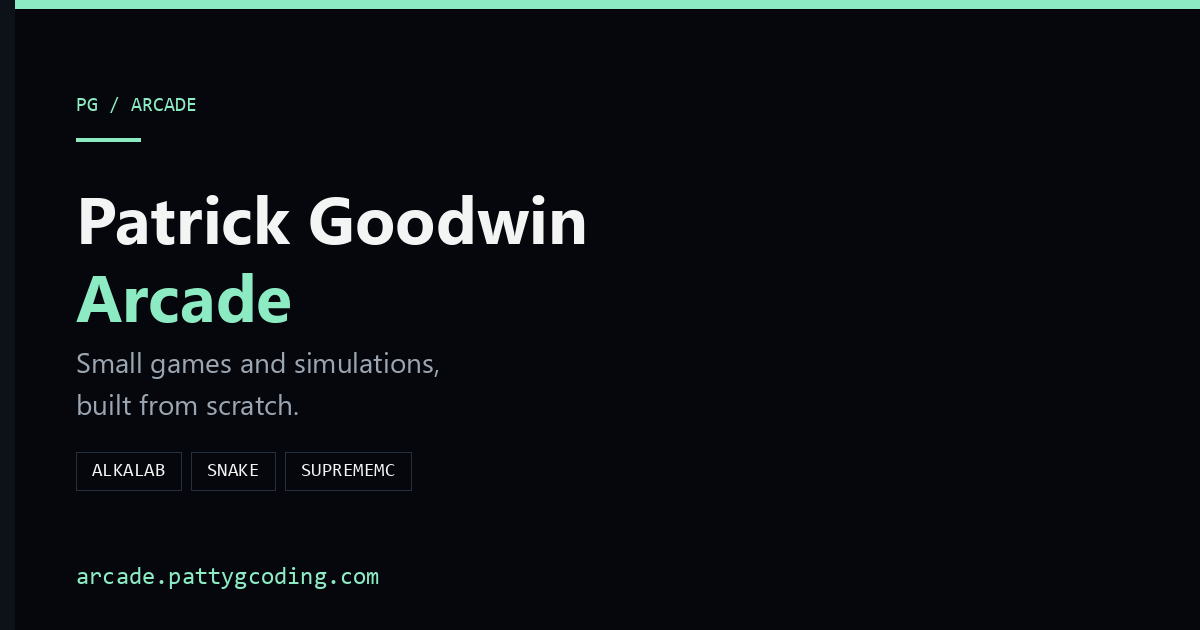
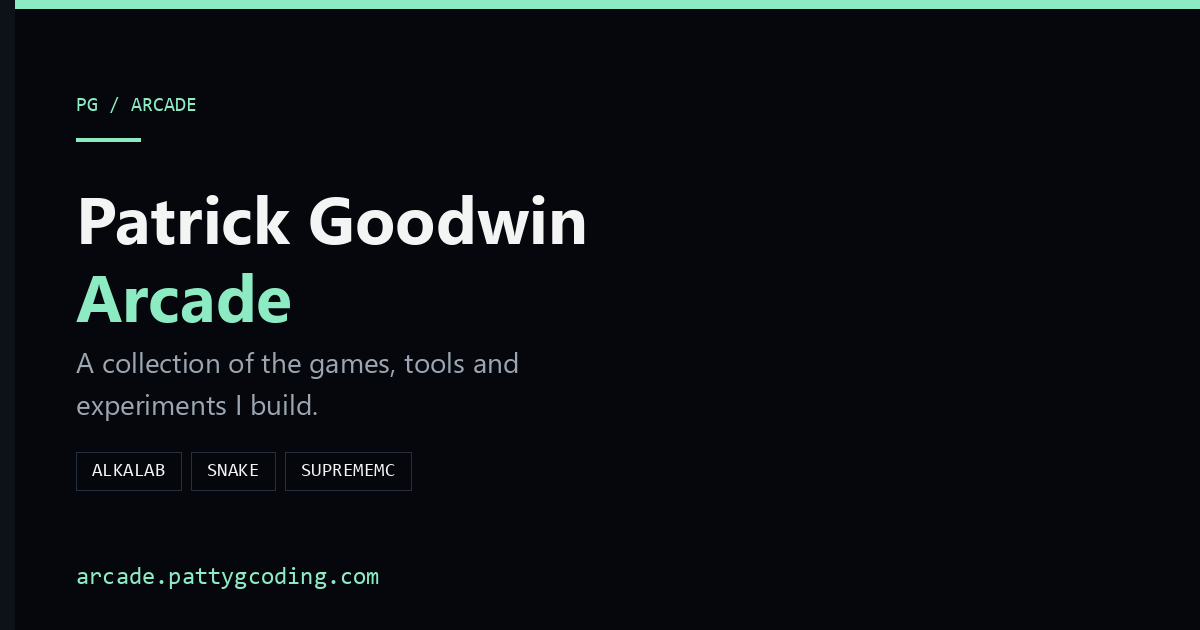
Correct the home copy: this is a collection, not only games
The tagline claimed the arcade was small games and simulations, each built from
scratch and compiled to WebAssembly.  It is really a general place to keep the
games, tools and experiments that get built - and not everything here is a game
or uses WebAssembly.

Reworded the tagline, the home eyebrow, the collection label and the card call to
action, plus the nav label, the baseline meta description, the generated home OG
card and the README intro.

Changed region(s): [[0.0617, 0.5429, 0.4317, 0.6032], [0.0617, 0.6333, 0.2775, 0.6635]]

diff --git a/src/index.html b/src/index.html
@@ -17,11 +17,11 @@
     scripts/generate-og-pages.js rewrites this block once per route.  Keep every tag
     below, because that script looks each one up by name and fails loudly if missing.
   -->
-  <meta name="description" content="Small games and simulations, each built from scratch - and compiled to WebAssembly where it counts.">
+  <meta name="description" content="A collection of the games, tools and experiments I build - and whatever else seems worth keeping.">
   <meta property="og:type" content="website">
   <meta property="og:site_name" content="Patrick Goodwin Arcade">
   <meta property="og:title" content="Patrick Goodwin Arcade">
-  <meta property="og:description" content="Small games and simulations, each built from scratch - and compiled to WebAssembly where it counts.">
+  <meta property="og:description" content="A collection of the games, tools and experiments I build - and whatever else seems worth keeping.">
   <meta property="og:url" content="https://arcade.pattygcoding.com/">
   <meta property="og:image" content="https://arcade.pattygcoding.com/og/home.png">
   <meta property="og:image:type" content="image/png">
@@ -30,7 +30,7 @@
   <meta property="og:image:alt" content="Patrick Goodwin Arcade">
   <meta name="twitter:card" content="summary_large_image">
   <meta name="twitter:title" content="Patrick Goodwin Arcade">
-  <meta name="twitter:description" content="Small games and simulations, each built from scratch - and compiled to WebAssembly where it counts.">
+  <meta name="twitter:description" content="A collection of the games, tools and experiments I build - and whatever else seems worth keeping.">
   <meta name="twitter:image" content="https://arcade.pattygcoding.com/og/home.png">
   <script>
     // Choose the theme before first paint so there is no flash of the wrong palette.

diff --git a/tools/generate_og_images.py b/tools/generate_og_images.py
@@ -36,8 +36,8 @@ CARDS = {
         "eyebrow": "PG / ARCADE",
         "title": [("Patrick Goodwin", False), ("Arcade", True)],
         "body": [
-            "Small games and simulations,",
-            "built from scratch.",
+            "A collection of the games, tools and",
+            "experiments I build.",
         ],
         "tags": ["ALKALAB", "SNAKE", "SUPREMEMC"],
     },

diff --git a/README.md b/README.md
@@ -2,8 +2,8 @@
 
 # Patrick Goodwin Arcade
 
-The arcade supporting website for the PG-Website repository: a small collection of
-games and simulations, each built from scratch.
+The arcade supporting website for the PG-Website repository: a place to collect the
+games, tools and experiments I build.
 
 It is an **Angular 21 + TypeScript** app (Angular CLI 21.2.26) that reuses the
 design language of `pattygcoding.dev` and the Connect Four showcase: a navy canvas
@@ -42,8 +42,8 @@ npm run banners      # python tools/generate_banner.py
 
 ## Pages
 
-Routing lives in `src/app/app.routes.ts`; every page is lazily loaded so the
-games only ship when visited.
+Routing lives in `src/app/app.routes.ts`; every page is lazily loaded so each
+project only ships when visited.
 
 | Route | Component | Notes |
 | --- | --- | --- |
@@ -52,9 +52,9 @@ games only ship when visited.
 | `/snake` | `pages/snake` | Rust/WASM snake driven by miniquad's JS bundle. |
 | `/suprememc` | `pages/suprememc` | Showcase for the SupremeMC Minecraft mod (no runtime WASM). |
 
-The game pages are adapted from the PG-Website portfolio and re-themed to this
-site's palette and fonts (Inter + JetBrains Mono). The wasm-backed games keep
-their binaries and glue in `public/wasm/` — `alkalab.js` (wasm-bindgen glue),
+These pages are adapted from the PG-Website portfolio and re-themed to this site's
+palette and fonts (Inter + JetBrains Mono). The wasm-backed projects keep their
+binaries and glue in `public/wasm/` — `alkalab.js` (wasm-bindgen glue),
 `alkalab.wasm` and `snake.wasm` — which Angular copies to the build output
 verbatim, so they are fetched at runtime from `/wasm/...`.
 
